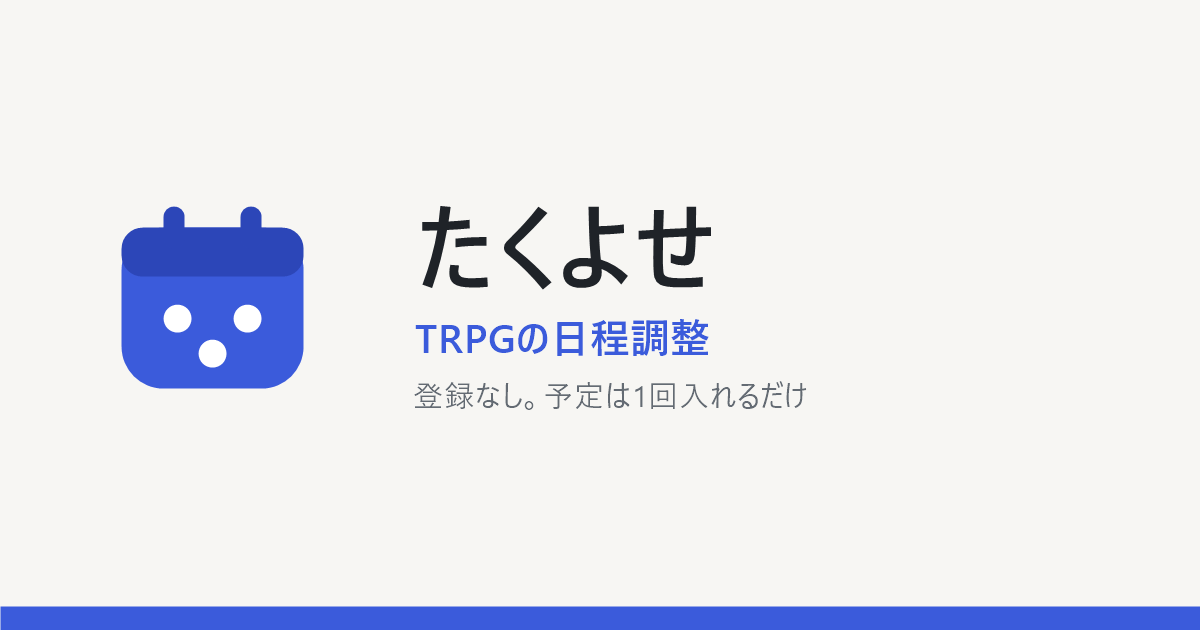
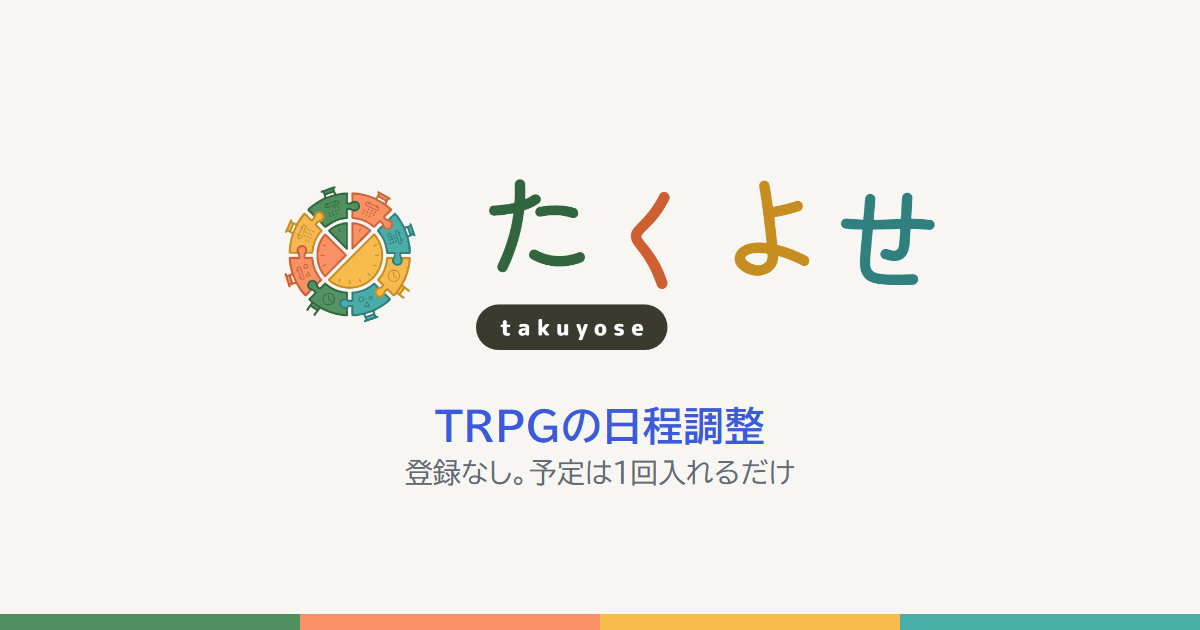
タブのアイコンとURLのカード画像を新しいロゴにする
- タブのアイコンを時計のマークの PNG にし、ホーム画面に追加したとき用のアイコンも足す
- URLを貼ったときのカード画像を、文字入りのロゴと4色の帯にする

diff --git a/src/client/components/Brand.tsx b/src/client/components/Brand.tsx
@@ -3,7 +3,7 @@
 // ロゴの画像は public/brand/ にある。暗い画面(ダークモード)では、暗い画面用の画像に自動で切り替える
 //   header.png / header-dark.png     … ヘッダ用(時計と「たくよせ」の1行)
 //   wordmark.png / wordmark-dark.png … 大きく出すとき用(英字の札つき)
-// タブのアイコン(public/favicon.svg)と、URLを貼ったときの画像(public/og-image.png)は別のファイル
+// タブのアイコン(public/favicon.png・apple-touch-icon.png)と、URLを貼ったときの画像(public/og-image.png)は別のファイル
 /** サービスの名前 */
 export const APP_NAME = "たくよせ";
 import { LogoMark } from "./Icons";

diff --git a/src/client/index.html b/src/client/index.html
@@ -8,7 +8,8 @@
       name="description"
       content="TRPGの日程調整サービス。登録なしで使えて、予定は1回入れるだけ。参加している卓ぜんぶに反映され、GMは全員の◯△×を表で見て開催日を決められます。"
     />
-    <link rel="icon" href="/favicon.svg" type="image/svg+xml" />
+    <link rel="icon" href="/favicon.png" type="image/png" sizes="48x48" />
+    <link rel="apple-touch-icon" href="/apple-touch-icon.png" />
     <meta name="theme-color" content="#3b5bdb" />
 
     <!-- URLを貼ったときのカード(Discord・LINE・X など)。どのページでも同じものを出す(卓のタイトルは出さない) -->
